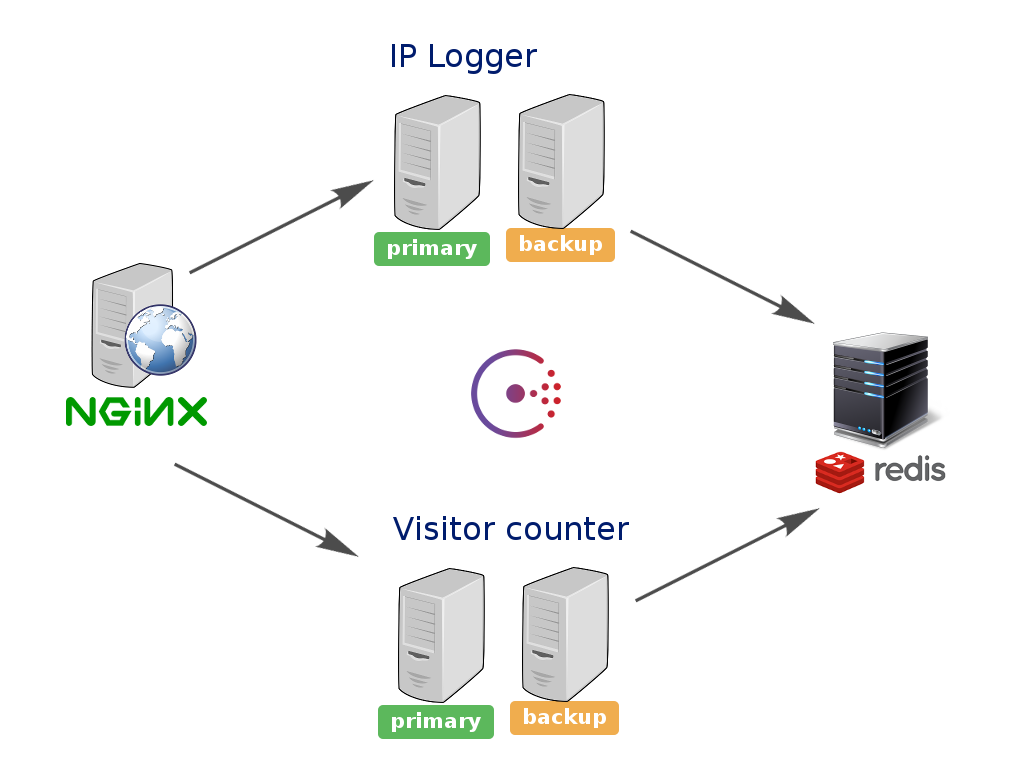
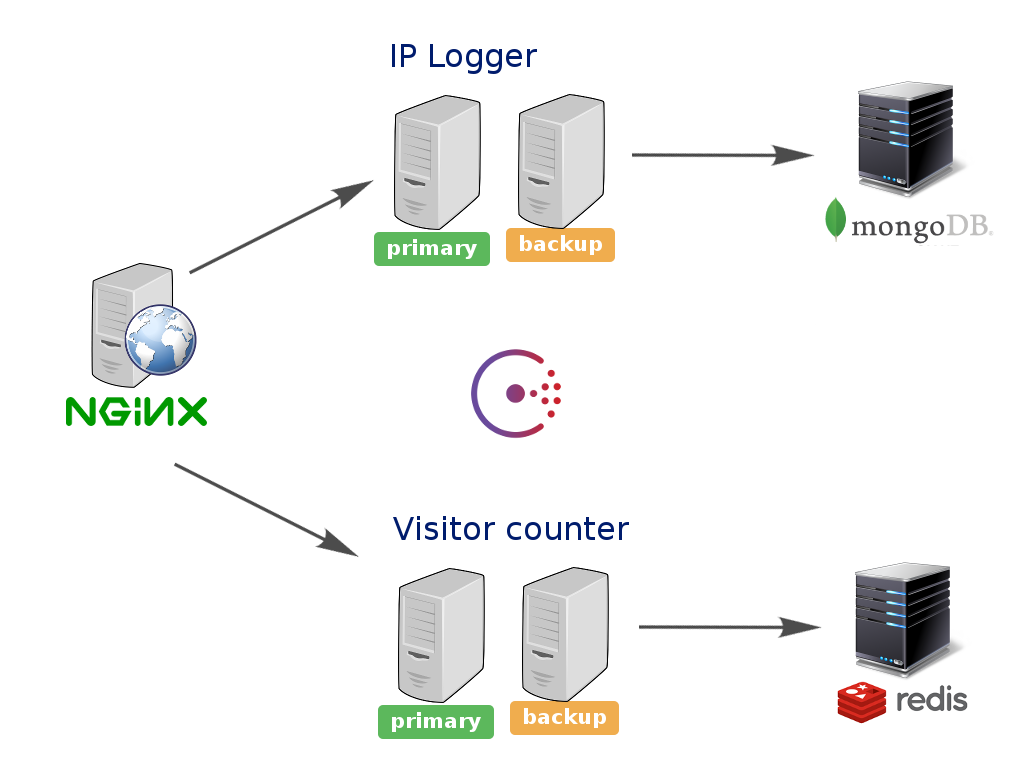
docs and digram

diff --git a/README.md b/README.md
@@ -4,7 +4,9 @@
 
 This project shows a web application built using a microservices architecture.
 
-There are two python microservices (rest-count and rest-ip).
+There are two microservices:
+    - *rest-count* implemented in Python (Flask microframework) using a Redis database
+    - *rest-ip* implemented in Node.js (Express framework) using a Mongodb database
 
 Using consul-template you can generate a dynamic Nginx configuration so that you can deploy new microservices version with no downtime.
 
